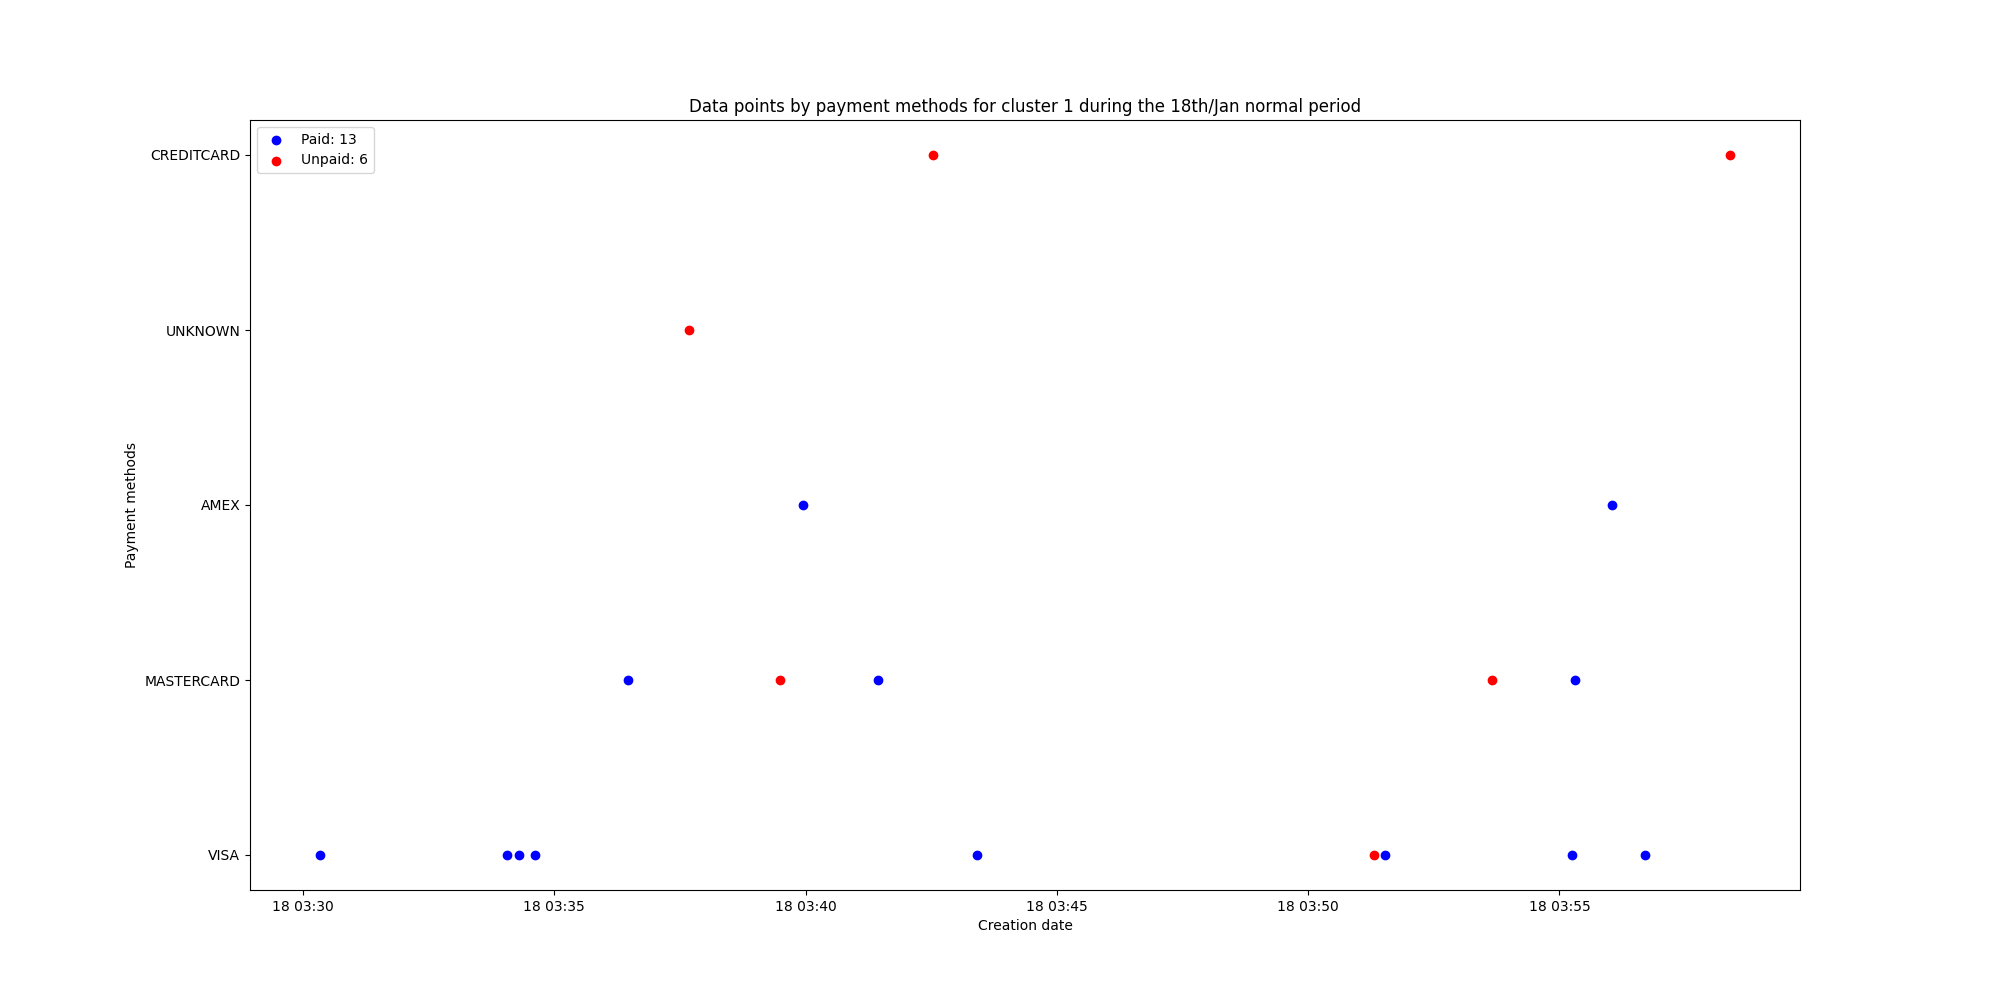
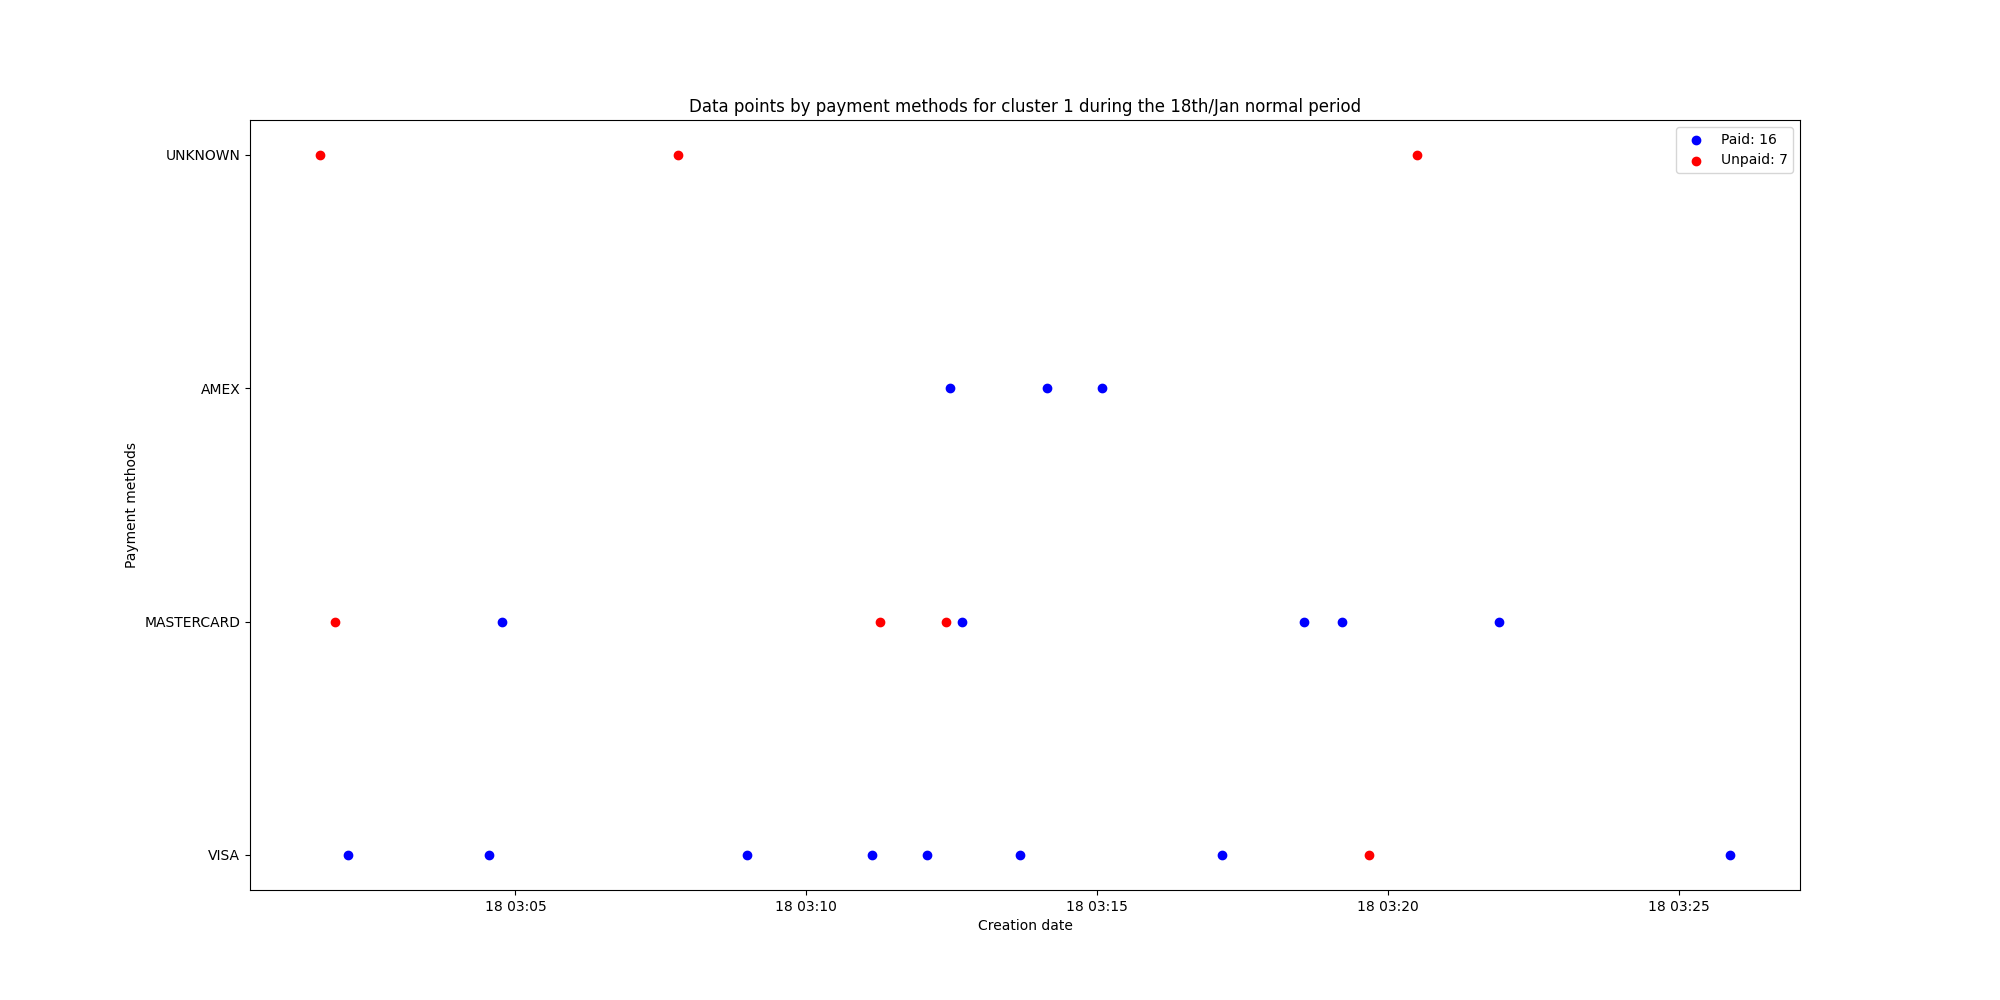
fin de la partie kmeans avec les données brutes

diff --git a/sarimax/unsupervised.py b/sarimax/unsupervised.py
@@ -4,8 +4,8 @@ import matplotlib.pyplot as plt
 from sklearn.cluster import KMeans
 import datetime
 
-from sklearn.preprocessing import MinMaxScaler, StandardScaler
-
+def percent_analysis(unpaid, paid):
+    print(f"{(unpaid / (unpaid + paid) * 100):.2f}% ({unpaid+paid})")
 
 def prepare_data(data, onehot_state=False):
     # convert the date into columns for year, month, day, hour, minute
@@ -21,7 +21,7 @@ def prepare_data(data, onehot_state=False):
     # print(data['PAYMENT_METHOD'].value_counts())
     # input()
 
-    # drop some columns
+    # drop some columns 
     data = data.drop(['CREATION_DATE', 'PAYMENT_ID', 'PREVIOUS_STATES', 'PAYMENT_TYPE', 'ISSUER'], axis=1)
 
 
@@ -37,6 +37,7 @@ def prepare_data(data, onehot_state=False):
         data['PAYMENT_STATE'] = data['PAYMENT_STATE'].replace('UNPAID', 0)
         data['PAYMENT_STATE'] = data['PAYMENT_STATE'].replace('ABANDONED', 0)
         data['PAYMENT_STATE'] = data['PAYMENT_STATE'].replace('REFUSED', 0)
+        data['PAYMENT_STATE'] = data['PAYMENT_STATE'].replace('REFUNDED', 0)
         # keep only the rows where the payment state is 0 or 1
         data = data[data['PAYMENT_STATE'].isin([0, 1])]
 
@@ -56,10 +57,10 @@ def kmeans_transactions(fname, cluster_number, start_datetime, end_datetime, one
     data['CREATION_DATE'] = pd.to_datetime(data['CREATION_DATE'])
     # print(data.columns)
 
-    print(data['PAYMENT_TYPE'].value_counts())
-    print(data['PAYMENT_STATE'].value_counts())
-    print(data['PAYMENT_METHOD'].value_counts())
-    exit()
+    # print(data['PAYMENT_TYPE'].value_counts())
+    # print(data['PAYMENT_STATE'].value_counts())
+    # print(data['PAYMENT_METHOD'].value_counts())
+    # exit()
 
 
     # # display the number of transaction for every minutes
@@ -85,10 +86,10 @@ def kmeans_transactions(fname, cluster_number, start_datetime, end_datetime, one
 
 
     norm_data = prepare_data(data, onehot_state)
-    print(norm_data.head())
-    print(norm_data.columns)
+    # print(norm_data.head())
+    # print(norm_data.columns)
 
-    ### Elbow method ###
+    # ### Elbow method ###
     # sum_squared_distances = []
     # for num_clusters in range(2, 10):
     #     kmeans = KMeans(n_clusters=num_clusters)
@@ -99,16 +100,26 @@ def kmeans_transactions(fname, cluster_number, start_datetime, end_datetime, one
     # plt.plot(range(2, 10), sum_squared_distances)
     # plt.xlabel('Number of Clusters')
     # plt.ylabel('Sum of Squared Distances')
+    # plt.title('Elbow Method based on the transactions data transformed')
+    # plt.savefig('elbow_method.png')
     # plt.show()
-
-    # # create a kmeans model
-    kmeans = KMeans(n_clusters=cluster_number, random_state=42)
-    kmeans.fit(norm_data)
+    # return
 
     # recreate the datetime using the year, month, day, hour, minute, second to keep only the data between start_datetime and end_datetime
     norm_data['CREATION_DATE'] = pd.to_datetime(norm_data[['year', 'month', 'day', 'hour', 'minute', 'second']])
+
     display_data = norm_data[(norm_data['CREATION_DATE'] > start_datetime) & (norm_data['CREATION_DATE'] < end_datetime)]
     display_data = display_data.drop(['CREATION_DATE'], axis=1)
+    print("display_data", display_data.head())
+
+    # # create a kmeans model
+    kmeans = KMeans(n_clusters=cluster_number, random_state=42)
+    # remove the display_data from the norm_data
+    norm_data = norm_data.drop(display_data.index)
+    norm_data = norm_data.drop(['CREATION_DATE'], axis=1)
+
+    print("norm_data", norm_data.head())
+    kmeans.fit(norm_data)
 
     # # predict the clusters for the data
     display_data['LABEL'] = kmeans.predict(display_data)
@@ -134,11 +145,10 @@ def kmeans_transactions(fname, cluster_number, start_datetime, end_datetime, one
         display_data['PAYMENT_STATE_NUM'] = display_data['PAYMENT_STATE_NUM'].replace('ABANDONED', 4)
 
 
-    if not onehot_state:
-        # for each cluster compute the number of paid and unpaid transactions
-        for cluster in range(cluster_number):
-            cluster_data = display_data[display_data['LABEL'] == cluster]
-            print(cluster_data['PAYMENT_STATE'].value_counts())
+    # for each cluster compute the number of paid and unpaid transactions
+    for cluster in range(cluster_number):
+        cluster_data = display_data[display_data['LABEL'] == cluster]
+        print(cluster_data['PAYMENT_STATE'].value_counts())
 
     # recreate the payment_method fields for the plot
     display_data['PAYMENT_METHOD'] = ''
@@ -165,15 +175,13 @@ def kmeans_transactions(fname, cluster_number, start_datetime, end_datetime, one
             plt.ylabel('Payment methods')
             plt.legend()
 
-            # get the date like 17th/Jan
-            str_date = start_datetime.strftime("%dth/%M")
 
             if start_datetime.hour == 10 and start_datetime.day == 17:
                 plt.title(f'Data points by payment methods for cluster {i} during the {start_datetime.strftime("%dth/%b")} incident period')
             else:
                 plt.title(f'Data points by payment methods for cluster {i} during the {start_datetime.strftime("%dth/%b")} normal period')
             if savefig: plt.savefig(f'{folder_name}/kmeans_{start_datetime.strftime("%dth_%Hh")}_january_2023_cluster_{i}_with_payment_state.png')
-            # plt.show()
+            plt.show()
     else:
         for i in range(cluster_number):
             display_data_spec = display_data[display_data['LABEL'] == i]
@@ -190,14 +198,16 @@ def kmeans_transactions(fname, cluster_number, start_datetime, end_datetime, one
             paid_transaction_count = len(display_data_spec[display_data_spec['PAYMENT_STATE'] == 1])
             unpaid_transaction_count = len(display_data_spec[display_data_spec['PAYMENT_STATE'] == 0])
             plt.legend([f'Paid: {paid_transaction_count}', f'Unpaid: {unpaid_transaction_count}'])
+
+            percent_analysis(unpaid_transaction_count, paid_transaction_count)
             
             if start_datetime.hour == 10 and start_datetime.day == 17:
                 plt.title(f'Data points by payment methods for cluster {i} during the {start_datetime.strftime("%dth/%b")} incident period')
             else:
                 plt.title(f'Data points by payment methods for cluster {i} during the {start_datetime.strftime("%dth/%b")} normal period')
             if savefig: plt.savefig(f'{folder_name}/kmeans_{start_datetime.strftime("%dth_%Hh")}_january_2023_cluster_{i}.png')
-            # plt.show()
-
+            plt.show()
+    
 
 
     # # # plot some of the data points
@@ -214,20 +224,54 @@ normal_end_datetime = datetime.datetime(2023, 1, 18, 11, 0)
 night_start_datetime = datetime.datetime(2023, 1, 18, 3, 0)
 night_end_datetime = datetime.datetime(2023, 1, 18, 4, 0)
 
+other_normal_start_datetime = datetime.datetime(2023, 1, 19, 13, 0)
+other_normal_end_datetime = datetime.datetime(2023, 1, 19, 14, 0)
+
 savefig = True
 
-kmeans_transactions('./data/NEW_PAYMENT_202311171101_alldata.csv', 3, incident_start_datetime, incident_end_datetime, savefig=savefig)
-kmeans_transactions('./data/NEW_PAYMENT_202311171101_alldata.csv', 3, normal_start_datetime, normal_end_datetime, savefig=savefig)
-kmeans_transactions('./data/NEW_PAYMENT_202311171101_alldata.csv', 3, night_start_datetime, night_end_datetime, savefig=savefig)
+# kmeans_transactions('./data/NEW_PAYMENT_202311171101_alldata.csv', 3, incident_start_datetime, incident_end_datetime, savefig=savefig)
+# kmeans_transactions('./data/NEW_PAYMENT_202311171101_alldata.csv', 3, normal_start_datetime, normal_end_datetime, savefig=savefig)
+# kmeans_transactions('./data/NEW_PAYMENT_202311171101_alldata.csv', 3, night_start_datetime, night_end_datetime, savefig=savefig)
 
-kmeans_transactions('./data/NEW_PAYMENT_202311171101_alldata.csv', 3, incident_start_datetime, incident_end_datetime, onehot_state=True, savefig=savefig)
-kmeans_transactions('./data/NEW_PAYMENT_202311171101_alldata.csv', 3, normal_start_datetime, normal_end_datetime, onehot_state=True, savefig=savefig)
-kmeans_transactions('./data/NEW_PAYMENT_202311171101_alldata.csv', 3, night_start_datetime, night_end_datetime, onehot_state=True, savefig=savefig)
+# kmeans_transactions('./data/NEW_PAYMENT_202311171101_alldata.csv', 3, incident_start_datetime, incident_end_datetime, onehot_state=True, savefig=savefig)
+# kmeans_transactions('./data/NEW_PAYMENT_202311171101_alldata.csv', 3, normal_start_datetime, normal_end_datetime, onehot_state=True, savefig=savefig)
+# kmeans_transactions('./data/NEW_PAYMENT_202311171101_alldata.csv', 3, night_start_datetime, night_end_datetime, onehot_state=True, savefig=savefig)
 
 kmeans_transactions('./data/NEW_PAYMENT_202311171101_alldata.csv', 2, incident_start_datetime, incident_end_datetime, savefig=savefig)
 kmeans_transactions('./data/NEW_PAYMENT_202311171101_alldata.csv', 2, normal_start_datetime, normal_end_datetime, savefig=savefig)
 kmeans_transactions('./data/NEW_PAYMENT_202311171101_alldata.csv', 2, night_start_datetime, night_end_datetime, savefig=savefig)
+kmeans_transactions('./data/NEW_PAYMENT_202311171101_alldata.csv', 2, other_normal_start_datetime, other_normal_end_datetime, savefig=savefig)
 
-kmeans_transactions('./data/NEW_PAYMENT_202311171101_alldata.csv', 2, incident_start_datetime, incident_end_datetime, onehot_state=True, savefig=savefig)
-kmeans_transactions('./data/NEW_PAYMENT_202311171101_alldata.csv', 2, normal_start_datetime, normal_end_datetime, onehot_state=True, savefig=savefig)
-kmeans_transactions('./data/NEW_PAYMENT_202311171101_alldata.csv', 2, night_start_datetime, night_end_datetime, onehot_state=True, savefig=savefig)
+# kmeans_transactions('./data/NEW_PAYMENT_202311171101_alldata.csv', 2, incident_start_datetime, incident_end_datetime, onehot_state=True, savefig=savefig)
+# kmeans_transactions('./data/NEW_PAYMENT_202311171101_alldata.csv', 2, normal_start_datetime, normal_end_datetime, onehot_state=True, savefig=savefig)
+# kmeans_transactions('./data/NEW_PAYMENT_202311171101_alldata.csv', 2, night_start_datetime, night_end_datetime, onehot_state=True, savefig=savefig)
+
+
+# kmeans_transactions('./data/NEW_PAYMENT_202311171101_alldata.csv', 4, incident_start_datetime, incident_end_datetime, savefig=savefig)
+# kmeans_transactions('./data/NEW_PAYMENT_202311171101_alldata.csv', 4, normal_start_datetime, normal_end_datetime, savefig=savefig)
+# kmeans_transactions('./data/NEW_PAYMENT_202311171101_alldata.csv', 4, night_start_datetime, night_end_datetime, savefig=savefig)
+
+# kmeans_transactions('./data/NEW_PAYMENT_202311171101_alldata.csv', 4, incident_start_datetime, incident_end_datetime, onehot_state=True, savefig=savefig)
+# kmeans_transactions('./data/NEW_PAYMENT_202311171101_alldata.csv', 4, normal_start_datetime, normal_end_datetime, onehot_state=True, savefig=savefig)
+# kmeans_transactions('./data/NEW_PAYMENT_202311171101_alldata.csv', 4, night_start_datetime, night_end_datetime, onehot_state=True, savefig=savefig)
+
+
+# 17th
+print(f"\n17th")
+percent_analysis(845, 346)
+percent_analysis(122, 503)
+
+# 18th
+print(f"\n18th")
+percent_analysis(95, 413)
+percent_analysis(263, 1273)
+
+# 19th
+print(f"\n19th")
+percent_analysis(75, 325)
+percent_analysis(86, 361)
+
+# night
+print(f"\nNight")
+percent_analysis(5, 16)
+percent_analysis(6, 13)

diff --git a/sarimax/unsupervised.md b/sarimax/unsupervised.md
@@ -36,3 +36,48 @@ ABANDONED       1572
 
 
 ""Suite -> voir si on choisit d'abord une certaine façon de faire sur les 4 ou si on fait les 4 et on compare les résultats (mais demande de choisir comment on décide si oui ou non on considère que c'est un incident)""
+
+
+
+La première étape après avoir préparé les données est de trouver le nombre de clusters à utiliser. Pour cela, il a été décidé d'utiliser la méthode du coude qui consiste à calculer la somme des distances au carré de chaque point à son centroïde, puis de comparer le résultat obtenu avec le connaissance du domaine. Dans cette optique, la méthode du coude nous informe qu'il faudrait quatre clusters afin de séparer au mieux les données, néanmoins dans notre cas, il serait plus logique d'avoir deux clusters : un pour les transactions  normales et un autre pour les transactions anormales. En outre, lors de l'analyse d'un cas en utilisant quatre et deux clusters respectivement, quatre clusters ne donne pas une vision plus claire des données et complique la décision du choix de décider dans quel mesure affirmer qu'un groupement défini les transactions anormales. C'est pourquoi il a été convenu de choisir deux clusters pour la suite de l'analyse.
+La deuxième décision qu'il a fallu prendre est par rapport à la transformation de l'attribut de l'état du paiement, est-ce qu'il est préférable de choisir la transformation binaire ou celle avec cinq possibilitées. Dans ce but, deux prédictions sur deux jours et heures ont été réalisé afin d'analyser la répartition des résultats obtenues. Ce qui a pu en être ressorti est que la différenciation en cinq catégories ne permet pas d'avoir de meilleures résultats tout en n'avant pas de réel impacte sur la décision du cluster à assigner à une transaction, ce qui est principalement dû au fait que les transactions payés et non payés sont le plus représenté.
+<div style="display: flex; justify-content: space-between;">
+    <img src="./kmeans/2_clusters/onehot_payment_state/kmeans_17th_10h_january_2023_cluster_0_with_payment_state.png" alt="Image 1" width="49%">
+    <img src="./kmeans/2_clusters/onehot_payment_state/kmeans_17th_10h_january_2023_cluster_0_with_payment_state.png" alt="Image 1" width="49%">
+</div>
+<div style="display: flex; justify-content: space-between;">
+    <img src="./kmeans/2_clusters/onehot_payment_state/kmeans_18th_10h_january_2023_cluster_0_with_payment_state.png" alt="Image 1" width="49%">
+    <img src="./kmeans/2_clusters/onehot_payment_state/kmeans_18th_10h_january_2023_cluster_0_with_payment_state.png" alt="Image 1" width="49%">
+</div>
+
+Maintenant que les données sont prêtes ainsi que les hyper paramètres de l'algorithme, l'évaluation du modèle peut commencer. Tout d'abord il faut determiné lequel des deux clusters est celui représentant les données dites anormales, pour y parvenir il a été décidé d'utiliser une fenêtre de données d'une heure et de choisir quatre date différentes dont une a eu un problème. La décision de choisir une fenêtre d'une durée de une heure permet d'avoir assez de transactions afin de pouvoir avoir une plus grande confidence sur l'analyse.
+
+<div style="display: flex; justify-content: space-between;">
+    <img src="./kmeans/2_clusters/binary_payment_state/kmeans_17th_10h_january_2023_cluster_0.png" alt="Image 1" width="49%">
+    <img src="./kmeans/2_clusters/binary_payment_state/kmeans_17th_10h_january_2023_cluster_1.png" alt="Image 1" width="49%">
+</div>
+
+
+<div style="display: flex; justify-content: space-between;">
+    <img src="./kmeans/2_clusters/binary_payment_state/kmeans_18th_10h_january_2023_cluster_0.png" alt="Image 1" width="49%">
+    <img src="./kmeans/2_clusters/binary_payment_state/kmeans_18th_10h_january_2023_cluster_1.png" alt="Image 1" width="49%">
+</div>
+
+Si on calcul le pourcentage que représente les transactions payées et non payées suivant les clusters voici ce que l'on peut obtenir :
+17th
+20.79% (635)
+71.09% (1197)
+
+18th
+17.50% (1543)
+19.81% (515)
+
+19th
+18.75% (400)
+19.24% (447)
+
+Night
+35.00% (20)
+30.43% (23)
+
+La première chose qu'il ressort de l'étude des clusters est qu'il semble que basé sur les représentations et les calculs statistiques, il semblerait que l'algorithme pourrait permettre de détecter des problèmes dans les données de transactions. Cependant, une autre chose ressort clairement de ces représentations et c'est l'axe X représentant le temps, comme on peut le voir l'algorithme K-means ne sépare pas les données basé sur une compréhension de l'état du paiement, mais sépare les données basé sur les minutes. Le cluster 0 représente les données de la deuxième moitié de l'heure et le cluster 1 de la première partie de l'heure. Si on choisit de prendre des données dans un temps plus cours comme 15 ou 30 minutes alors les résultats n'ont plus aucune valeur avec un cluster qui contient la grande majorité des transactions et l'autre quasiement rien. En voyant cela on peut se dire d'enlever le timestamp pour voir comment il réagit mais cela change la séparation des données basé sur la méthode de paiement ce qui ne permet toujours pas de detecter ce que l'on veut. Avec cette analyse, il est dangereux de se baser sur une technique de se genre car elle n'est pas maniable et montre que l'algorithme ne comprend pas la base sous jacente des données, ce qui pourrait amener a des conclusions erronées et engendrer des problèmes. C'est pourquoi cette technique utilisant des données brutes de transaction est écartée des potentielles solutions viables.
